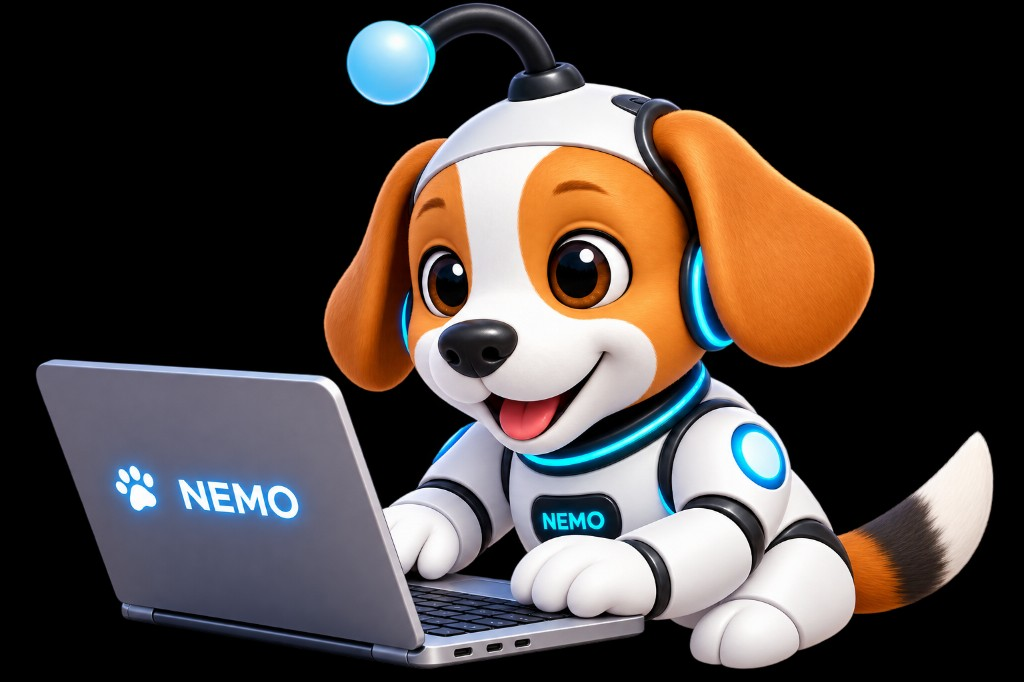
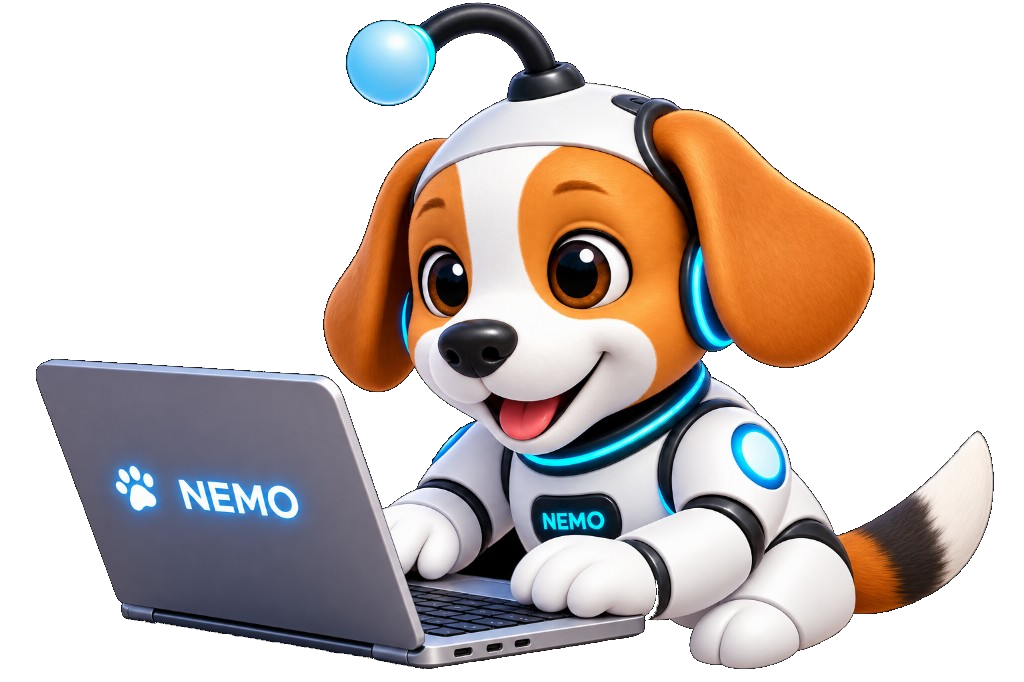
Make Viral Script Writer Nemo laptop mascot clearly visible.
Replace the solid black RGB asset with a transparent PNG and enlarge it above the page title so it no longer blends into dark headers.

diff --git a/src/app/viral-script-writer/components/ViralScriptWriterContent.tsx b/src/app/viral-script-writer/components/ViralScriptWriterContent.tsx
@@ -1187,15 +1187,15 @@ Calculate an honest viralScore (0–100).`;
 
   return (
     <div className="min-h-screen bg-background">
-      {/* Header */}
-      <div className="sticky top-0 z-20 bg-background/95 backdrop-blur-md border-b border-border px-5 sm:px-6 py-4 flex items-center justify-between gap-3 flex-wrap">
-        <div className="flex flex-col items-start gap-1.5 min-w-0">
+      {/* Header — overflow-visible so mascot is not clipped by sticky bar */}
+      <div className="sticky top-0 z-20 overflow-visible bg-background/95 backdrop-blur-md border-b border-border px-5 sm:px-6 py-5 flex items-start justify-between gap-3 flex-wrap">
+        <div className="flex flex-col items-start gap-2 min-w-0">
           <img
             src="/brand/nemo-laptop.png"
-            alt=""
-            width={56}
-            height={56}
-            className="h-12 w-12 sm:h-14 sm:w-14 object-contain flex-shrink-0 drop-shadow-sm"
+            alt="Nemo writing on a laptop"
+            width={192}
+            height={128}
+            className="h-20 w-auto sm:h-24 object-contain flex-shrink-0 drop-shadow-md"
             decoding="async"
           />
           <div className="min-w-0">
@@ -1207,7 +1207,7 @@ Calculate an honest viralScore (0–100).`;
             </p>
           </div>
         </div>
-        <div className="flex items-center gap-2">
+        <div className="flex items-center gap-2 pt-1">
           <div className="flex items-center gap-2 px-3.5 py-2 rounded-xl bg-primary/10 border border-primary/20 text-sm font-mono-custom text-primary font-bold">
             <Icon name="SparklesIcon" size={14} variant="solid" />
             NemoScript AI
